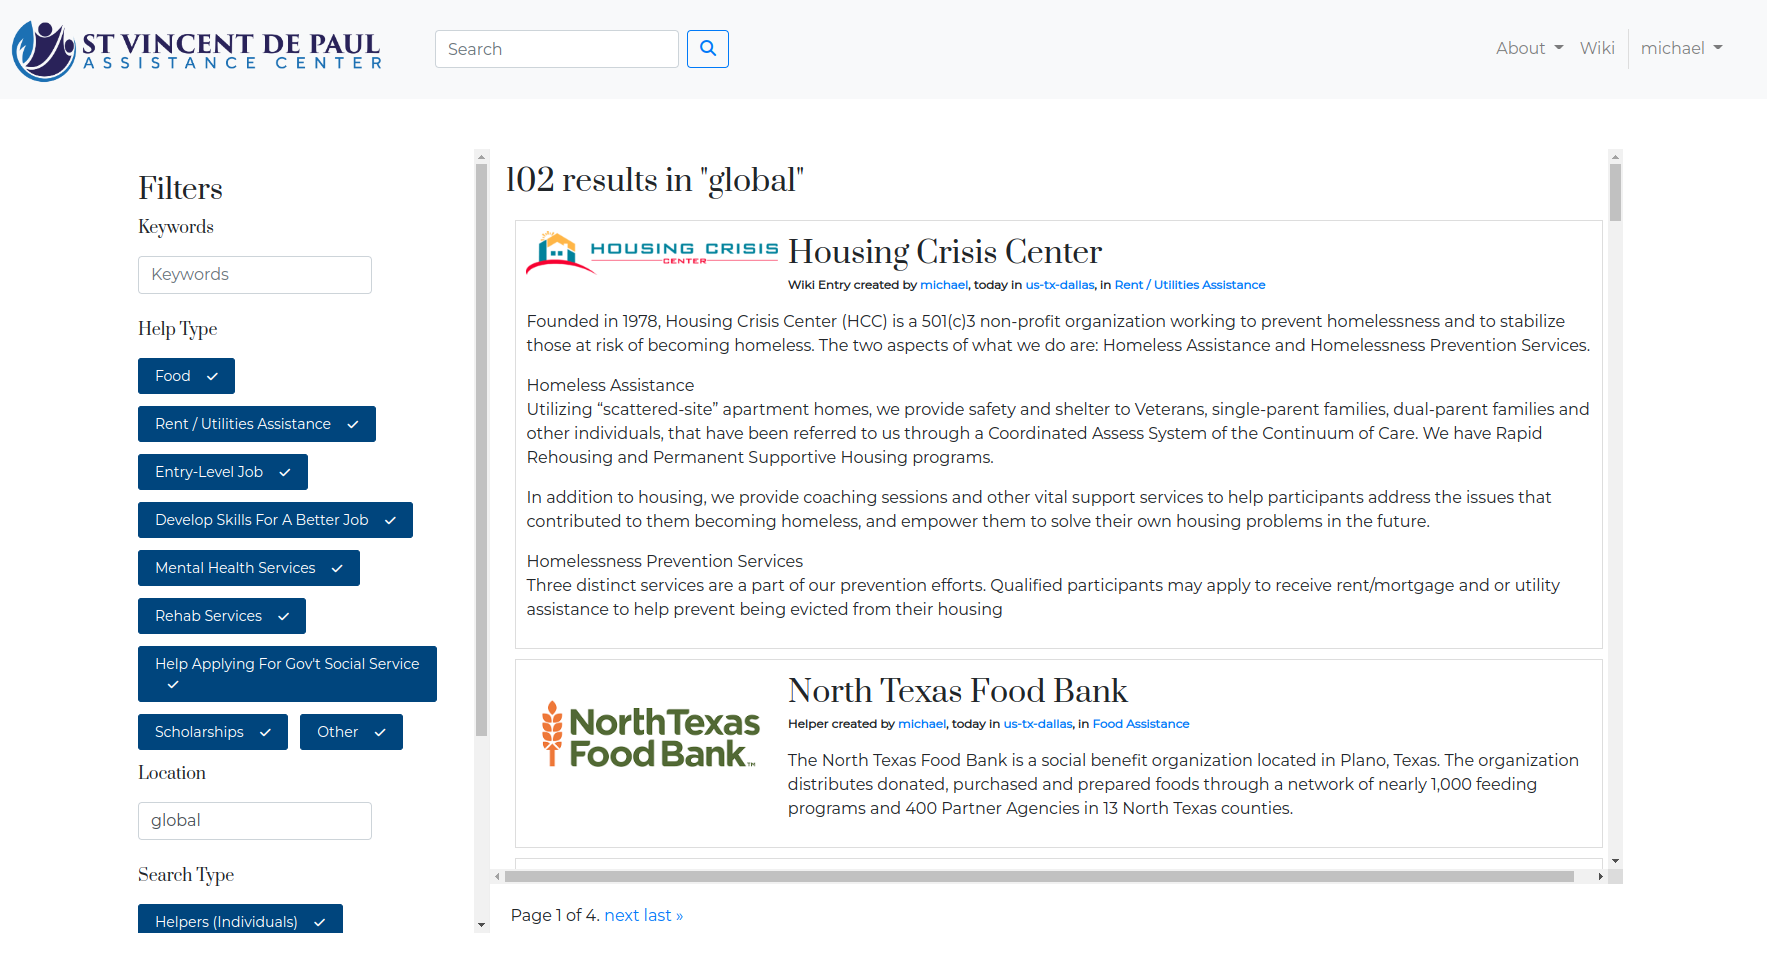
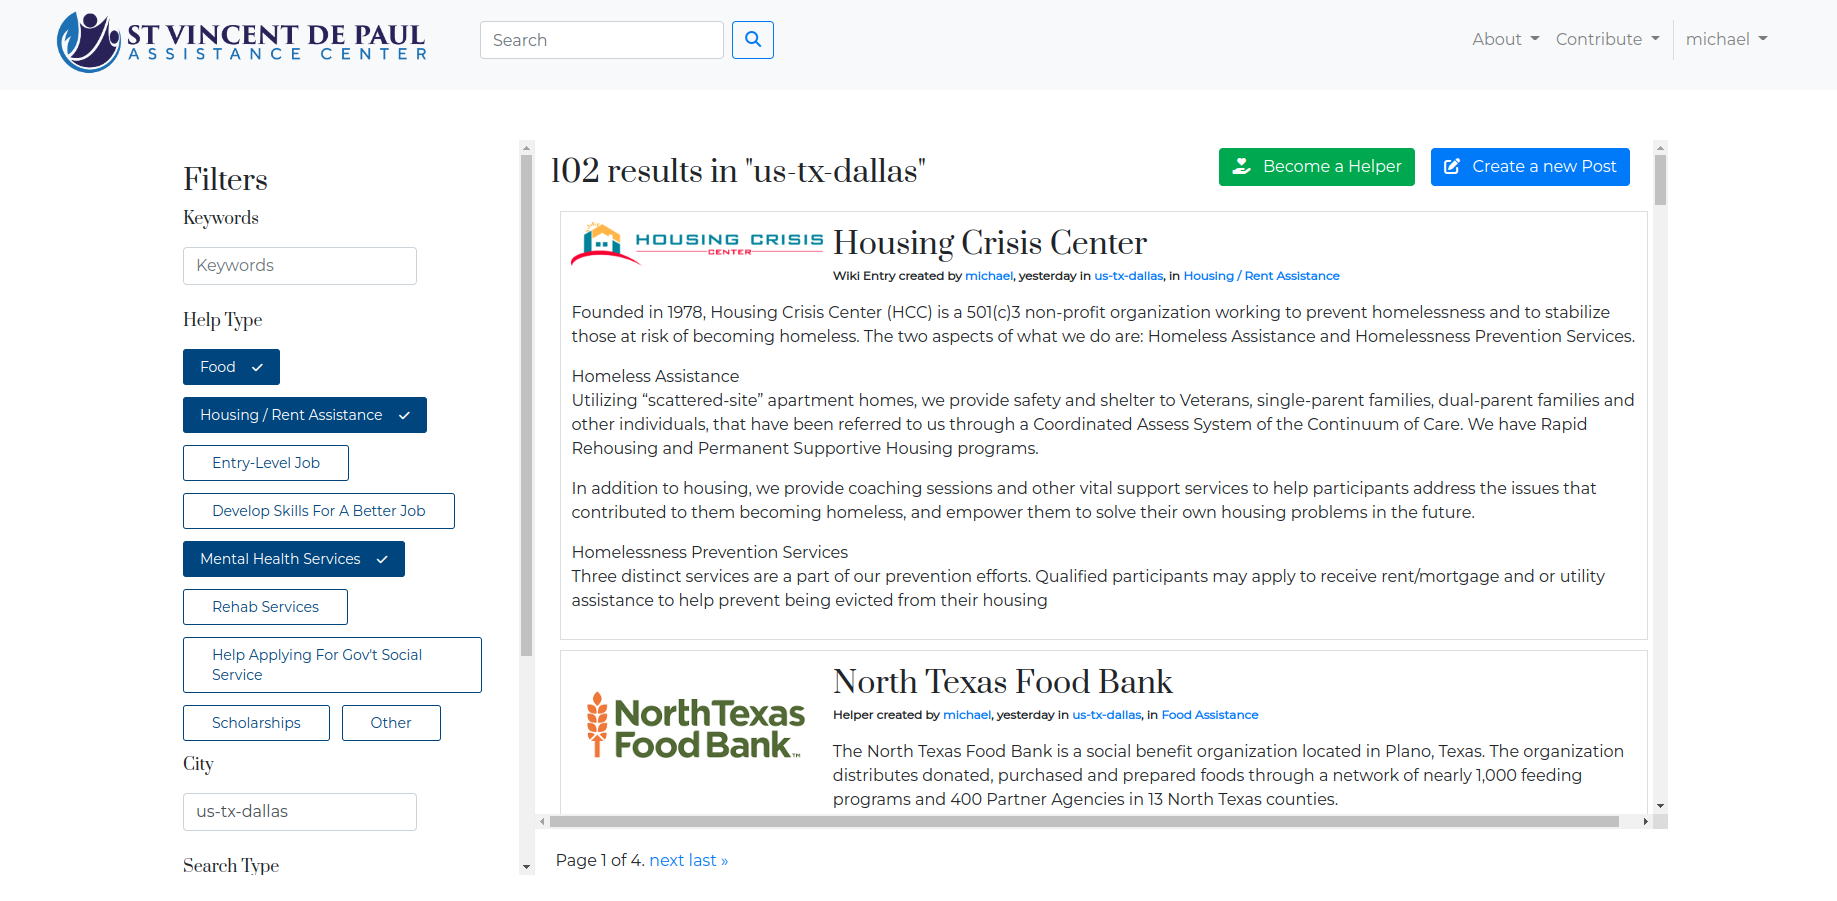
new search img, debug search

diff --git a/stdepaul/templates/root_app/posts.html b/stdepaul/templates/root_app/posts.html
@@ -29,7 +29,7 @@
 
 			<label class="PillList-item">
 		    <input type="checkbox" name="help_types[]" value="rent_utilities" checked>
-		    	<span class="PillList-label"> Rent / Utilities Assistance
+		    	<span class="PillList-label"> Housing / Rent Assistance
 		    		<span class="Icon Icon--checkLight Icon--smallest"><i class="fa fa-check"></i></span>
 		    	</span>
 			</label>
@@ -82,7 +82,7 @@
 		    	</span>
 			</label>
 			</div>
-			<p class="prata-font"> Location </p>
+			<p class="prata-font"> City </p>
 			<input type="text" placeholder="Location" name="location" id="id_location" class="col-md-9 form-control" value="{{location}}" /><br>
 			<p class="prata-font">
 				Search Type

diff --git a/stdepaul/templates/home.html b/stdepaul/templates/home.html
@@ -58,7 +58,7 @@
 
 							<label class="PillList-item">
 						    <input type="checkbox" name="help_types[]" value="rent_utilities" checked>
-						    	<span class="PillList-label"> Rent / Utilities Assistance
+						    	<span class="PillList-label"> Housing / Rent Assistance
 						    		<span class="Icon Icon--checkLight Icon--smallest"><i class="fa fa-check"></i></span>
 						    	</span>
 							</label>

diff --git a/root_app/migrations/0020_auto_20221213_0232.py b/root_app/migrations/0020_auto_20221213_0232.py
@@ -1,0 +1,23 @@
+# Generated by Django 3.2 on 2022-12-13 02:32
+
+from django.db import migrations, models
+
+
+class Migration(migrations.Migration):
+
+    dependencies = [
+        ('root_app', '0019_remove_userprofile_is_helper'),
+    ]
+
+    operations = [
+        migrations.AlterField(
+            model_name='helper',
+            name='helper_type',
+            field=models.CharField(blank=True, choices=[('food', 'Food Assistance'), ('rent_utilities', 'Housing / Rent Assistance'), ('entry_level_job', 'Entry-Level Job Employer'), ('develop_skills', 'Job Skills Educator'), ('mental_health', 'Mental Health Services Organization or Individual'), ('rehab', 'Drug / Alcohol Rehab Services Organization'), ('scholarships', 'Scholarship Offerer'), ('other', 'Other')], max_length=255, null=True),
+        ),
+        migrations.AlterField(
+            model_name='post',
+            name='help_type',
+            field=models.CharField(blank=True, choices=[('food', 'Food Assistance'), ('rent_utilities', 'Housing / Rent Assistance'), ('entry_level_job', 'Entry-Level Job Employer'), ('develop_skills', 'Job Skills Educator'), ('mental_health', 'Mental Health Services Organization or Individual'), ('rehab', 'Drug / Alcohol Rehab Services Organization'), ('scholarships', 'Scholarship Offerer'), ('other', 'Other')], max_length=255, null=True),
+        ),
+    ]

diff --git a/wiki/migrations/0011_alter_wikientry_helper_type.py b/wiki/migrations/0011_alter_wikientry_helper_type.py
@@ -1,0 +1,18 @@
+# Generated by Django 3.2 on 2022-12-13 02:32
+
+from django.db import migrations, models
+
+
+class Migration(migrations.Migration):
+
+    dependencies = [
+        ('wiki', '0010_wikientry_is_verified'),
+    ]
+
+    operations = [
+        migrations.AlterField(
+            model_name='wikientry',
+            name='helper_type',
+            field=models.CharField(blank=True, choices=[('food', 'Food Assistance'), ('rent_utilities', 'Housing / Rent Assistance'), ('entry_level_job', 'Entry-Level Job Employer'), ('develop_skills', 'Job Skills Educator'), ('mental_health', 'Mental Health Services Organization or Individual'), ('rehab', 'Drug / Alcohol Rehab Services Organization'), ('scholarships', 'Scholarship Offerer'), ('other', 'Other')], max_length=255, null=True),
+        ),
+    ]

diff --git a/root_app/models.py b/root_app/models.py
@@ -18,7 +18,7 @@ from martor.models import MartorField
 
 HELPER_TYPES = (
 	('food', 'Food Assistance'),
-	('rent_utilities', 'Rent / Utilities Assistance'),
+	('rent_utilities', 'Housing / Rent Assistance'),
 	('entry_level_job', 'Entry-Level Job Employer'),
 	('develop_skills', 'Job Skills Educator'),
 	('mental_health', 'Mental Health Services Organization or Individual'),
